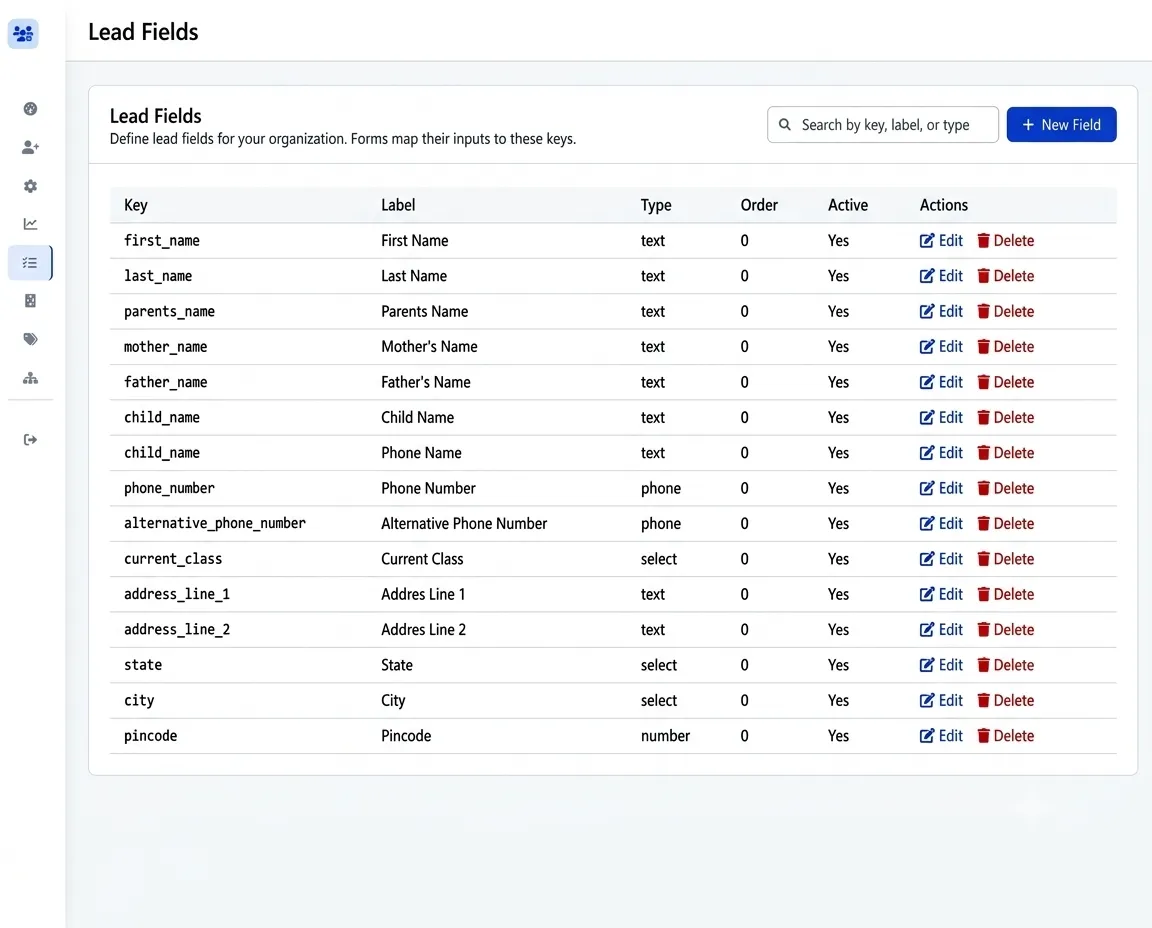
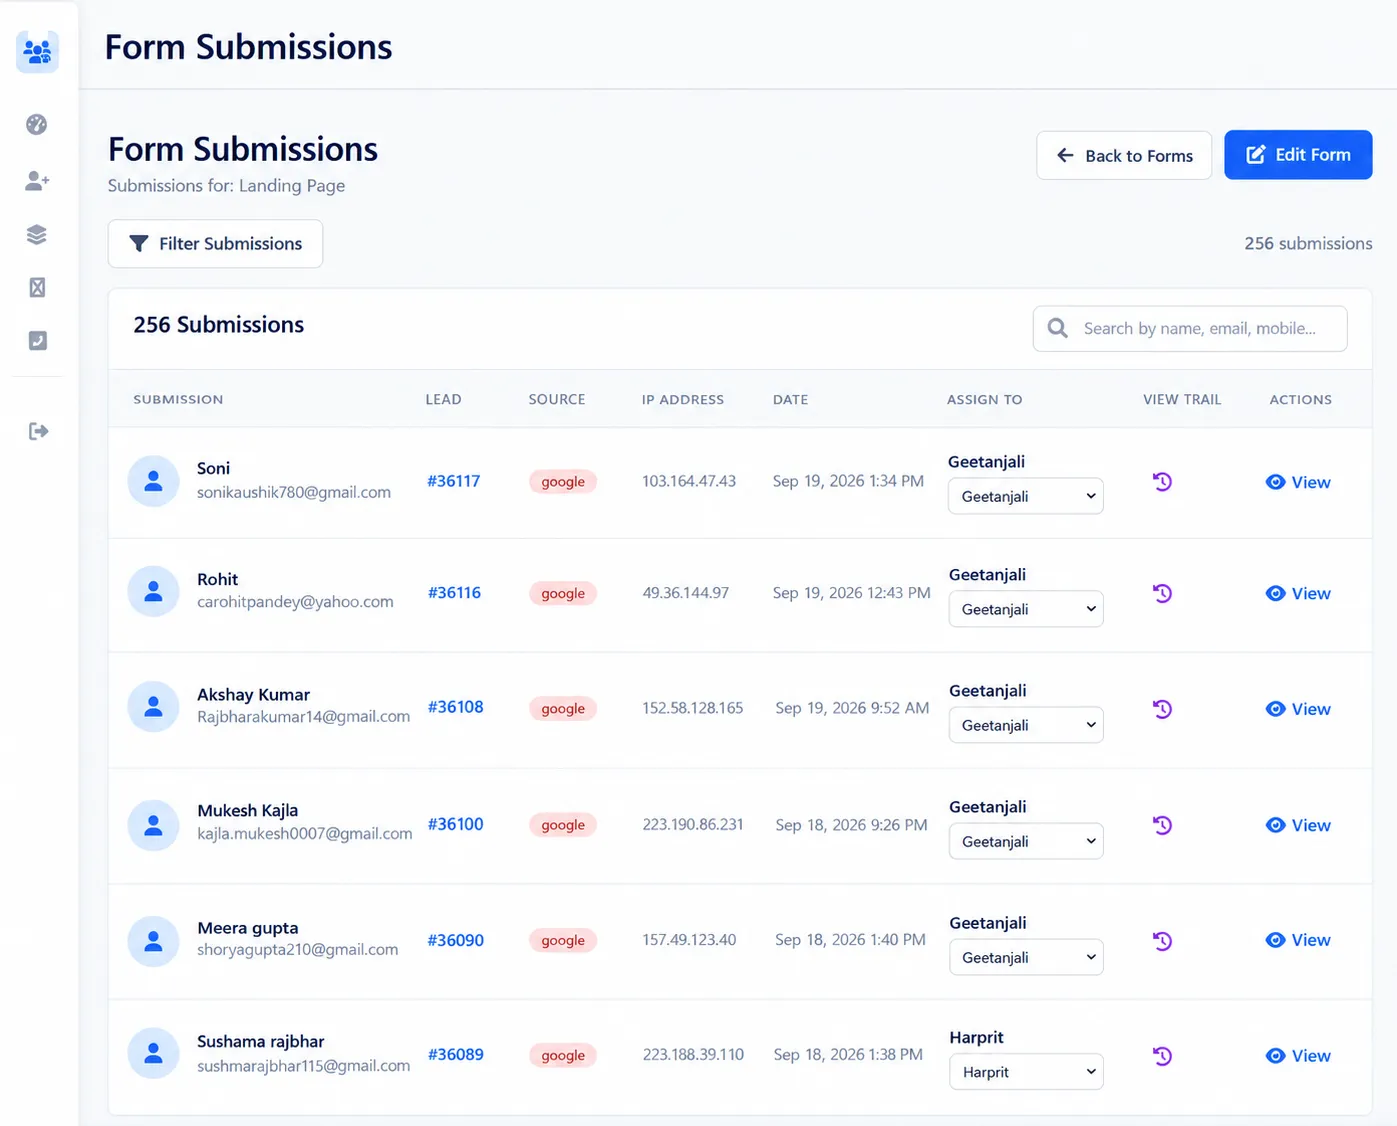
updates in home , about

diff --git a/components/Services/ServicesTabs.tsx b/components/Services/ServicesTabs.tsx
@@ -74,32 +74,10 @@ export function FacebookLogo() {
 export function ShikshaLogo() {
   return (
     <div className="flex items-center gap-2.5">
-      <svg
-        className="w-7 h-7 shrink-0"
-        viewBox="0 0 40 40"
-        fill="none"
-        xmlns="http://www.w3.org/2000/svg"
-      >
-        <rect width="40" height="40" rx="8" fill="#FF5B00" />
-        {/* Official Shiksha Mortarboard Cap Vector */}
-        <path d="M20 10L6 18L20 26L34 18L20 10Z" fill="#FFFFFF" />
-        <path
-          d="M11 21.5V27.5C11 29.5 15 31 20 31C25 31 29 29.5 29 27.5V21.5"
-          stroke="#FFFFFF"
-          strokeWidth="2.2"
-          strokeLinecap="round"
-        />
-        <path
-          d="M32 19V27"
-          stroke="#FFFFFF"
-          strokeWidth="2.2"
-          strokeLinecap="round"
-        />
-        <circle cx="32" cy="28.5" r="1.5" fill="#FFFFFF" />
-      </svg>
+      <img src="/assets/images (2).webp" alt="" className="w-7 h-7 shrink-0" />
       <div className="flex flex-col">
         <span className="font-black text-base tracking-tight text-[#2D3748] leading-none">
-          shiksha<span className="text-[#FF5B00]">.com</span>
+          shiksha.com
         </span>
         <span className="text-[10px] font-medium text-slate-500">
           Education Discovery
@@ -112,26 +90,14 @@ export function ShikshaLogo() {
 export function CollegeDuniaLogo() {
   return (
     <div className="flex items-center gap-2.5">
-      <svg
+      <img
+        src="/assets/1596641013-00f502b95d82ebc5.webp"
+        alt=""
         className="w-7 h-7 shrink-0"
-        viewBox="0 0 40 40"
-        fill="none"
-        xmlns="http://www.w3.org/2000/svg"
-      >
-        <rect width="40" height="40" rx="8" fill="#0B2239" />
-        {/* Official CollegeDunia Icon Vector */}
-        <path d="M20 9L6 16.5L20 24L34 16.5L20 9Z" fill="#FF9900" />
-        <path
-          d="M10 20V26C10 28.2 14.5 30 20 30C25.5 30 30 28.2 30 26V20"
-          stroke="#FF9900"
-          strokeWidth="2.2"
-          strokeLinecap="round"
-        />
-        <circle cx="20" cy="16.5" r="2.5" fill="#FFFFFF" />
-      </svg>
+      />
       <div className="flex flex-col">
         <span className="font-bold text-sm tracking-tight text-[#0B2239] leading-none">
-          college<span className="text-[#FF9900]">dunia</span>
+          college dunia
         </span>
         <span className="text-[10px] font-medium text-slate-500">
           Admission Search Hub
@@ -144,30 +110,9 @@ export function CollegeDuniaLogo() {
 export function EdustokeLogo() {
   return (
     <div className="flex items-center gap-2.5">
-      <svg
-        className="w-7 h-7 shrink-0"
-        viewBox="0 0 40 40"
-        fill="none"
-        xmlns="http://www.w3.org/2000/svg"
-      >
-        <rect width="40" height="40" rx="8" fill="#00A896" />
-        {/* Official Edustoke Stylized 'E' Icon */}
-        <path
-          d="M12 11H28C28 11 28 15 20 15C12 15 12 19 28 19C28 23 20 23 12 23H28"
-          stroke="#FFFFFF"
-          strokeWidth="3"
-          strokeLinecap="round"
-          strokeLinejoin="round"
-        />
-        <path
-          d="M12 11V29"
-          stroke="#FFFFFF"
-          strokeWidth="3"
-          strokeLinecap="round"
-        />
-      </svg>
+      <img src="/assets/images.webp" alt="" className="w-7 h-7 shrink-0" />
       <div className="flex flex-col">
-        <span className="font-extrabold text-sm tracking-tight text-[#00A896] leading-none">
+        <span className="font-extrabold text-sm tracking-tight text-black leading-none">
           edustoke
         </span>
         <span className="text-[10px] font-medium text-slate-500">
@@ -181,22 +126,10 @@ export function EdustokeLogo() {
 export function MyOperatorLogo() {
   return (
     <div className="flex items-center gap-2.5">
-      <svg className="w-7 h-7 shrink-0" viewBox="0 0 32 32" fill="none">
-        <rect width="32" height="32" rx="8" fill="#E53935" />
-        <path
-          d="M16 8C11.6 8 8 11.6 8 16V20C8 21.1 8.9 22 10 22H11C11.6 22 12 21.6 12 21V17C12 16.4 11.6 16 11 16H9.6C9.9 12.6 12.6 10 16 10C19.4 10 22.1 12.6 22.4 16H21C20.4 16 20 16.4 20 17V21C20 21.6 20.4 22 21 22H22C23.1 22 24 21.1 24 20V16C24 11.6 20.4 8 16 8Z"
-          fill="#FFFFFF"
-        />
-        <path
-          d="M22 22V23.5C22 24.3 21.3 25 20.5 25H17"
-          stroke="#FFFFFF"
-          strokeWidth="1.8"
-          strokeLinecap="round"
-        />
-      </svg>
+      <img src="/assets/download.webp" alt="" className="w-7 h-7 shrink-0" />
       <div className="flex flex-col">
         <span className="font-extrabold text-sm tracking-tight text-[#D32F2F] leading-none">
-          My<span className="text-slate-900">Operator</span>
+          <span className="text-slate-900">MyOperator</span>
         </span>
         <span className="text-[10px] font-medium text-slate-500">
           Cloud Telephony & IVR
@@ -209,31 +142,14 @@ export function MyOperatorLogo() {
 export function TeleCMILogo() {
   return (
     <div className="flex items-center gap-2.5">
-      <svg className="w-7 h-7 shrink-0" viewBox="0 0 32 32" fill="none">
-        <rect width="32" height="32" rx="8" fill="#0284C7" />
-        <path
-          d="M9 18C9 14.1 12.1 11 16 11C19.9 11 23 14.1 23 18"
-          stroke="#FFFFFF"
-          strokeWidth="2.2"
-          strokeLinecap="round"
-        />
-        <path
-          d="M12 19C12 16.8 13.8 15 16 15C18.2 15 20 16.8 20 19"
-          stroke="#FFFFFF"
-          strokeWidth="2"
-          strokeLinecap="round"
-        />
-        <circle cx="16" cy="20" r="1.8" fill="#FFFFFF" />
-        <path
-          d="M16 6V9"
-          stroke="#FFFFFF"
-          strokeWidth="2"
-          strokeLinecap="round"
-        />
-      </svg>
+      <img
+        src="/assets/download (1).webp"
+        alt=""
+        className="w-7 h-7 shrink-0"
+      />
       <div className="flex flex-col">
         <span className="font-extrabold text-sm tracking-tight text-[#0284C7] leading-none">
-          Tele<span className="text-slate-900">CMI</span>
+          <span className="text-slate-900">TeleCMI</span>
         </span>
         <span className="text-[10px] font-medium text-slate-500">
           Virtual PBX Dialer
@@ -274,12 +190,7 @@ export function GoogleAdsLogo() {
 export function GoogleMyBusinessLogo() {
   return (
     <div className="flex items-center gap-2.5">
-      <svg className="w-7 h-7 shrink-0" viewBox="0 0 32 32" fill="none">
-        <rect width="32" height="32" rx="8" fill="#4285F4" />
-        <path d="M8 12L16 7L24 12V14H8V12Z" fill="#FFFFFF" />
-        <path d="M10 14V22H22V14" fill="#E8F0FE" />
-        <rect x="13" y="16" width="6" height="6" rx="1" fill="#4285F4" />
-      </svg>
+      <img src="/assets/images (1).webp" alt="" className="w-7 h-7 shrink-0" />
       <div className="flex flex-col">
         <span className="font-bold text-xs sm:text-sm tracking-tight text-slate-900 leading-none">
           Google Business

diff --git a/components/Home/MetricsBar.tsx b/components/Home/MetricsBar.tsx
@@ -97,14 +97,14 @@ export function MetricsBar() {
       iconColor: "text-[#4F46E5]",
       iconBg: "bg-indigo-50 border-indigo-200/80",
     },
-    {
-      end: 10,
-      suffix: "+",
-      label: "Institutions & Universities",
-      icon: Award,
-      iconColor: "text-blue-600",
-      iconBg: "bg-blue-50 border-blue-200/80",
-    },
+    // {
+    //   end: 10,
+    //   suffix: "+",
+    //   label: "Institutions & Universities",
+    //   icon: Award,
+    //   iconColor: "text-blue-600",
+    //   iconBg: "bg-blue-50 border-blue-200/80",
+    // },
     {
       end: 2.5,
       decimals: 1,
@@ -164,7 +164,7 @@ export function MetricsBar() {
         <div className="w-14 h-1 bg-gradient-to-r from-[#818CF8] via-[#4F46E5] to-[#A855F7] rounded-full mb-10 sm:mb-14 shadow-sm" />
 
         {/* Horizontal Metrics Grid with Clean Vertical Dividers */}
-        <div className="w-full grid grid-cols-2 md:grid-cols-5 gap-6 sm:gap-8 md:gap-0 md:divide-x md:divide-slate-200 py-2 md:py-0">
+        <div className="w-full grid grid-cols-2 md:grid-cols-4 gap-6 sm:gap-8 md:gap-0 md:divide-x md:divide-slate-200 py-2 md:py-0">
           {metrics.map((metric, idx) => {
             const Icon = metric.icon;
             return (

diff --git a/components/About/PlatformPillarsSection.tsx b/components/About/PlatformPillarsSection.tsx
@@ -58,7 +58,7 @@ const pillars = [
     title: "Unified Communication Stack",
     subtitle: "Connected Workflow",
     description:
-      "Integrate telephony, WhatsApp, and email directly into counselor dashboards to ensure consistent engagement across every touchpoint.",
+      "Integrate telephony,  and email directly into counselor dashboards to ensure consistent engagement across every touchpoint.",
     badge: "Omnichannel Engagement",
     badgeColor: "bg-amber-50 text-amber-700 border-amber-200/80",
     iconBg: "bg-amber-500/10 text-amber-600 border-amber-200",
